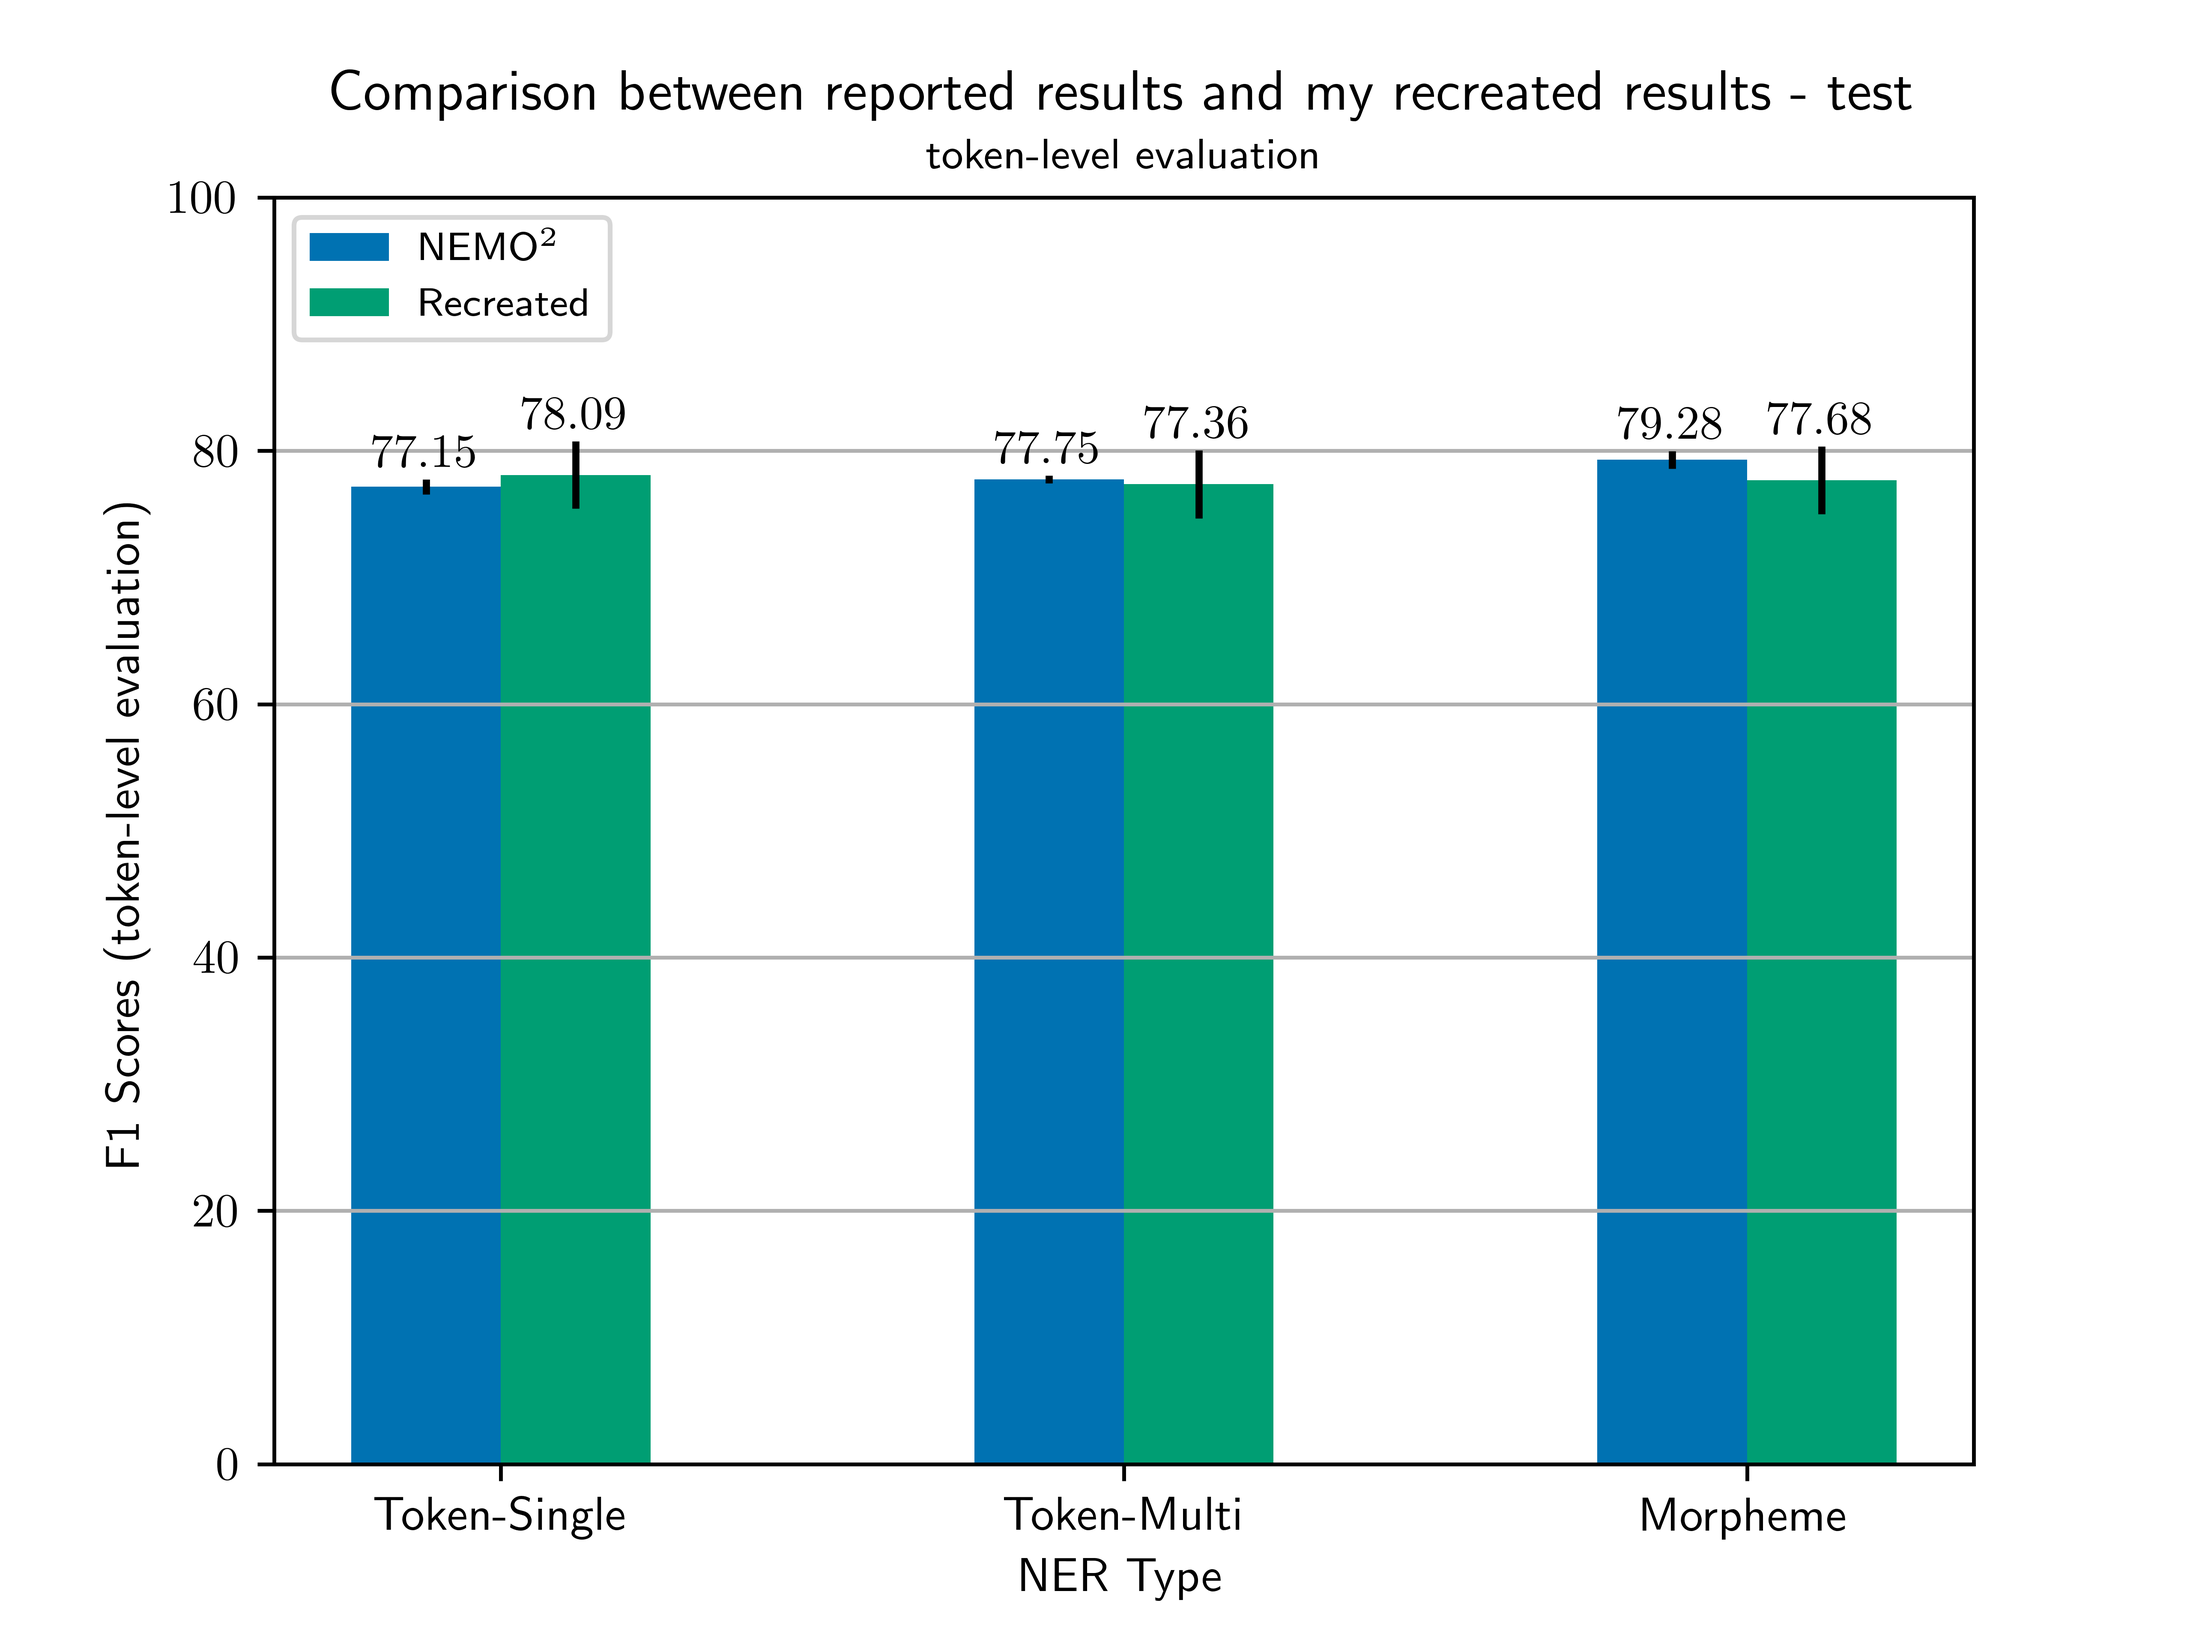
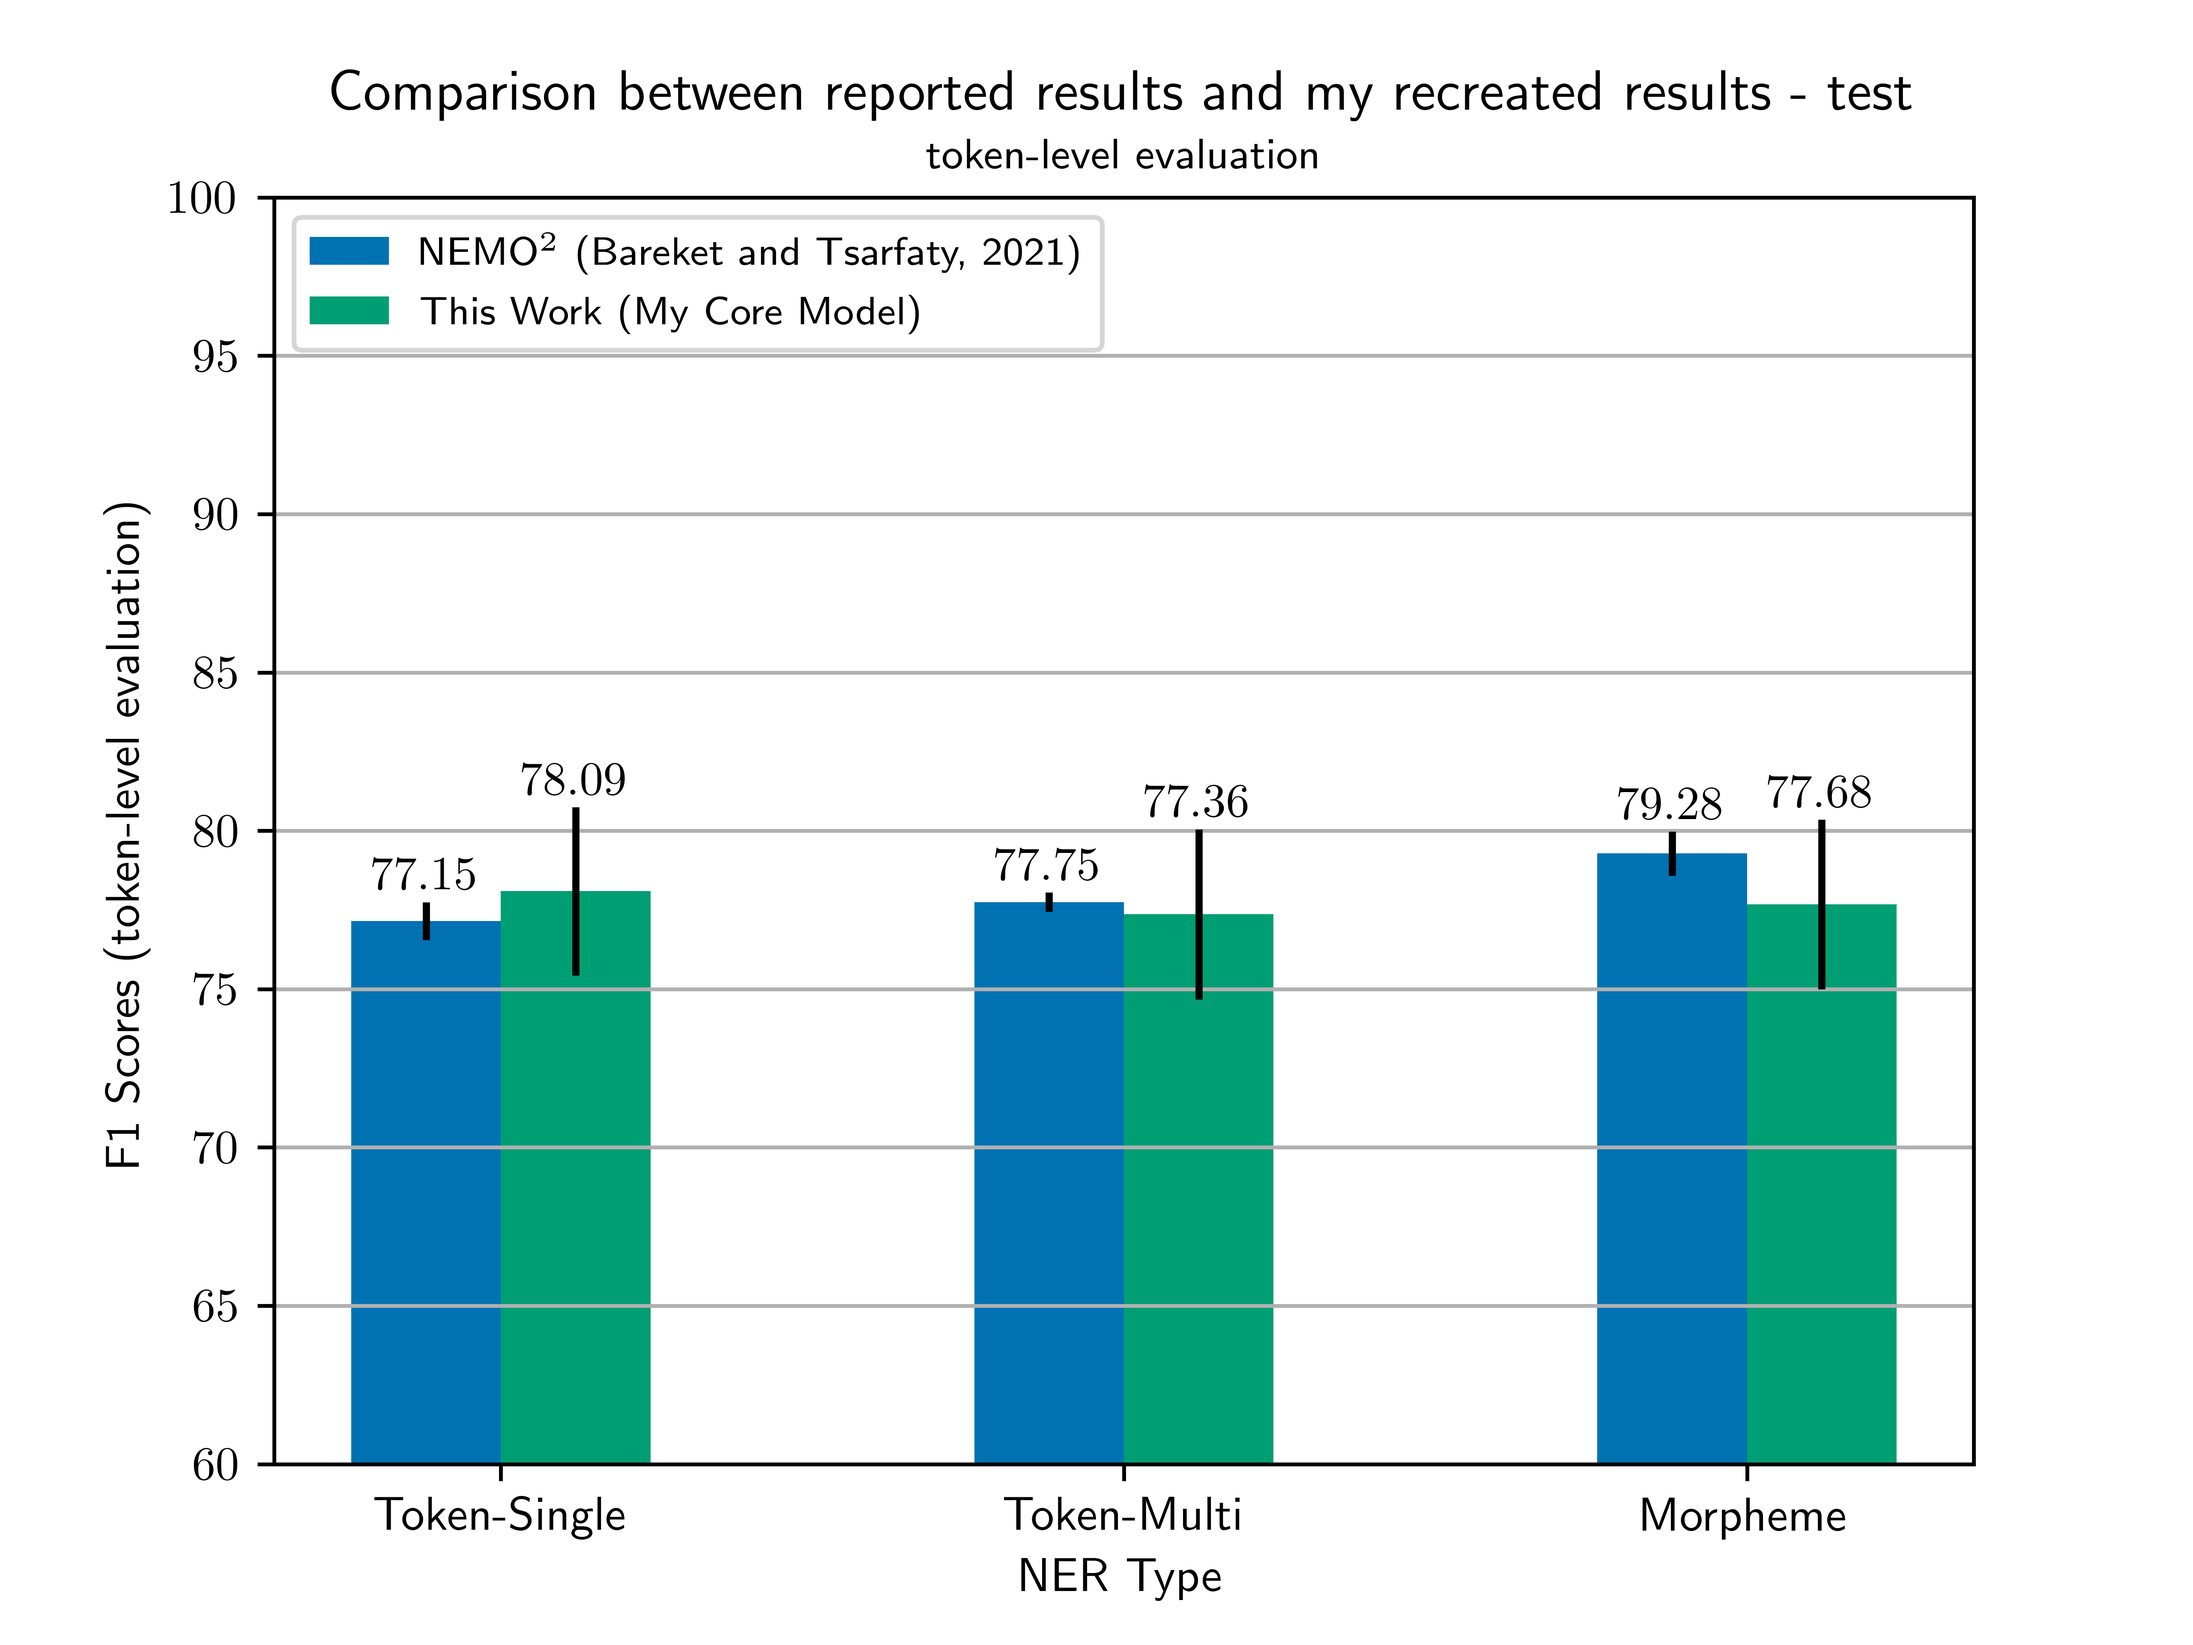
update graphs

diff --git a/utils/eval/graphing/comp.py b/utils/eval/graphing/comp.py
@@ -46,7 +46,7 @@ def base_comp_graph(categories, orig_values, orig_label, compared_values, compar
     ax.set_ylabel(y_label)
     ax.set_title(title)
     
-    ax.set_ylim(0, 100) # percentage scores
+    ax.set_ylim(60, 100) # percentage scores
     ax.set_xticks(orig_positions + bar_width / 2, 
                   labels=categories)
     
@@ -73,7 +73,7 @@ def basic_on_dev(save='graphs/standard/token_eval_dev.png', figax=None):
     my_values = np.array([tok.f, multi.f,  gold_morph.f])
     # my_values = my_values * 100
 
-    base_comp_graph(categories, orig_values, 'NEMO$^2$', my_values * 100, 'Recreated',
+    base_comp_graph(categories, orig_values, 'NEMO$^2$ (Bareket and Tsarfaty, 2021)', my_values * 100, 'This Work (My Core Model)',
                     x_label='NER Type', y_label='F1 Scores (token-level evaluation)',
                     title='Comparison between reported results and my recreated results - dev\n' +r'\small{token-level evaluation}',
                     comp_yerr=[norm_approx_int(f1, CONFIDENCE, DEV_NUM_SPANS) * 100 for f1 in my_values],
@@ -93,7 +93,7 @@ def basic_on_test(save='graphs/standard/token_eval_test.png', figax=None):
     my_values = np.array([tok.f, multi.f,  gold_morph.f])
     # my_values = my_values * 100
 
-    base_comp_graph(categories, orig_values, 'NEMO$^2$', my_values * 100, 'Recreated',
+    base_comp_graph(categories, orig_values, 'NEMO$^2$ (Bareket and Tsarfaty, 2021)', my_values * 100, 'This Work (My Core Model)',
                     x_label='NER Type', y_label='F1 Scores (token-level evaluation)',
                     title='Comparison between reported results and my recreated results - test\n' +r'\small{token-level evaluation}',
                     comp_yerr=[norm_approx_int(f1, CONFIDENCE, TEST_NUM_SPANS) * 100 for f1 in my_values],
@@ -112,7 +112,7 @@ def morph_on_dev(save='graphs/standard/morph_eval_dev.png', figax=None):
     my_values = np.array([gold_morph.f, pure_yap.f,  pred_multi.f, gold_multi.f])
     # my_values = my_values * 100
 
-    base_comp_graph(categories, orig_values, 'NEMO$^2$', my_values * 100, 'Recreated',
+    base_comp_graph(categories, orig_values, 'NEMO$^2$ (Bareket and Tsarfaty, 2021)', my_values * 100, 'This Work (My Core Model)',
                     x_label='Morpheme Model Type', y_label='F1 Scores (normalised morpheme-level evaluation)',
                     title='Comparison between reported results and my recreated results - dev\n' +r'\small{normalised morpheme-level evaluation}',
                     comp_yerr=[norm_approx_int(f1, CONFIDENCE, DEV_NUM_SPANS) * 100 for f1 in my_values],
@@ -130,7 +130,7 @@ def morph_on_test(save='graphs/standard/morph_eval_test.png', figax=None):
     my_values = np.array([gold_morph.f, pure_yap.f,  pred_multi.f, gold_multi.f])
     # my_values = my_values * 100
 
-    base_comp_graph(categories, orig_values, 'NEMO$^2$', my_values * 100, 'Recreated',
+    base_comp_graph(categories, orig_values, 'NEMO$^2$ (Bareket and Tsarfaty, 2021)', my_values * 100, 'This Work (My Core Model)',
                     x_label='Morpheme Model Type', y_label='F1 Scores (normalised morpheme-level evaluation)',
                     title='Comparison between reported results and my recreated results - test\n' +r'\small{normalised morpheme-level evaluation}',
                     comp_yerr=[norm_approx_int(f1, CONFIDENCE, TEST_NUM_SPANS) * 100 for f1 in my_values],
@@ -174,7 +174,7 @@ def basic_trn_on_dev(save='graphs/transformer/token_eval_dev.png', figax=None):
     my_values = np.array([tok.f, multi.f,  gold_morph.f])
     # my_values = my_values * 100
 
-    base_comp_graph(categories, orig_values, 'NEMO$^2$', my_values * 100, 'Transformer Labeller',
+    base_comp_graph(categories, orig_values, 'NEMO$^2$ (Bareket and Tsarfaty, 2021)', my_values * 100, 'This Work (My Transformer Model)',
                     x_label='NER Type', y_label='F1 Scores (token-level evaluation)',
                     title="Comparison between NEMO$^2$ results and my novel architecture's results - dev\n" +r'\small{token-level evaluation}',
                     comp_yerr=[norm_approx_int(f1, CONFIDENCE, DEV_NUM_SPANS) * 100 for f1 in my_values],
@@ -195,7 +195,7 @@ def basic_trn_on_test(save='graphs/transformer/token_eval_test.png', figax=None)
     my_values = np.array([tok.f, multi.f,  gold_morph.f])
     # my_values = my_values * 100
 
-    base_comp_graph(categories, orig_values, 'NEMO$^2$', my_values * 100, 'Transformer Labeller',
+    base_comp_graph(categories, orig_values, 'NEMO$^2$ (Bareket and Tsarfaty, 2021)', my_values * 100, 'This Work (My Transformer Model)',
                     x_label='NER Type', y_label='F1 Scores (token-level evaluation)',
                     title="Comparison between NEMO$^2$ results and my novel architecture's results - test\n" +r'\small{token-level evaluation}',
                     comp_yerr=[norm_approx_int(f1, CONFIDENCE, TEST_NUM_SPANS) * 100 for f1 in my_values],
@@ -214,7 +214,7 @@ def morph_trn_on_dev(save='graphs/transformer/morph_eval_dev.png', figax=None):
     my_values = np.array([gold_morph.f, pure_yap.f,  pred_multi.f, gold_multi.f])
     # my_values = my_values * 100
 
-    base_comp_graph(categories, orig_values, 'NEMO$^2$', my_values * 100, 'Transformer Labeller',
+    base_comp_graph(categories, orig_values, 'NEMO$^2$ (Bareket and Tsarfaty, 2021)', my_values * 100, 'This Work (My Transformer Model)',
                     x_label='Morpheme Model Type', y_label='F1 Scores (normalised morpheme-level evaluation)',
                     title="Comparison between NEMO$^2$ results and my novel architecture's results - dev\n" +r'\small{normalised morpheme-level evaluation}',
                     comp_yerr=[norm_approx_int(f1, CONFIDENCE, DEV_NUM_SPANS) * 100 for f1 in my_values],
@@ -232,7 +232,7 @@ def morph_trn_on_test(save='graphs/transformer/morph_eval_test.png', figax=None)
     my_values = np.array([gold_morph.f, pure_yap.f,  pred_multi.f, gold_multi.f])
     # my_values = my_values * 100
 
-    base_comp_graph(categories, orig_values, 'NEMO$^2$', my_values * 100, 'Transformer Labeller',
+    base_comp_graph(categories, orig_values, 'NEMO$^2$ (Bareket and Tsarfaty, 2021)', my_values * 100, 'This Work (My Transformer Model)',
                     x_label='Morpheme Model Type', y_label='F1 Scores (normalised morpheme-level evaluation)',
                     title="Comparison between NEMO$^2$ results and my novel architecture's results - test\n" +r'\small{normalised morpheme-level evaluation}',
                     comp_yerr=[norm_approx_int(f1, CONFIDENCE, TEST_NUM_SPANS) * 100 for f1 in my_values],
@@ -267,16 +267,16 @@ def trn_test():
     fig.savefig('graphs/transformer/test_comb.png', dpi=800, bbox_inches='tight')
 
 if __name__ == '__main__':
-    # basic_on_dev()
-    # basic_on_test()
-    # morph_on_dev()
-    # morph_on_test()
-    # basic_trn_on_dev()
-    # basic_trn_on_test()
-    # morph_trn_on_dev()
-    # morph_trn_on_test()
-    std_dev()
-    std_test()
-    trn_dev()
-    trn_test()
+    basic_on_dev()
+    basic_on_test()
+    morph_on_dev()
+    morph_on_test()
+    basic_trn_on_dev()
+    basic_trn_on_test()
+    morph_trn_on_dev()
+    morph_trn_on_test()
+    # std_dev()
+    # std_test()
+    # trn_dev()
+    # trn_test()
     # plt.show()
